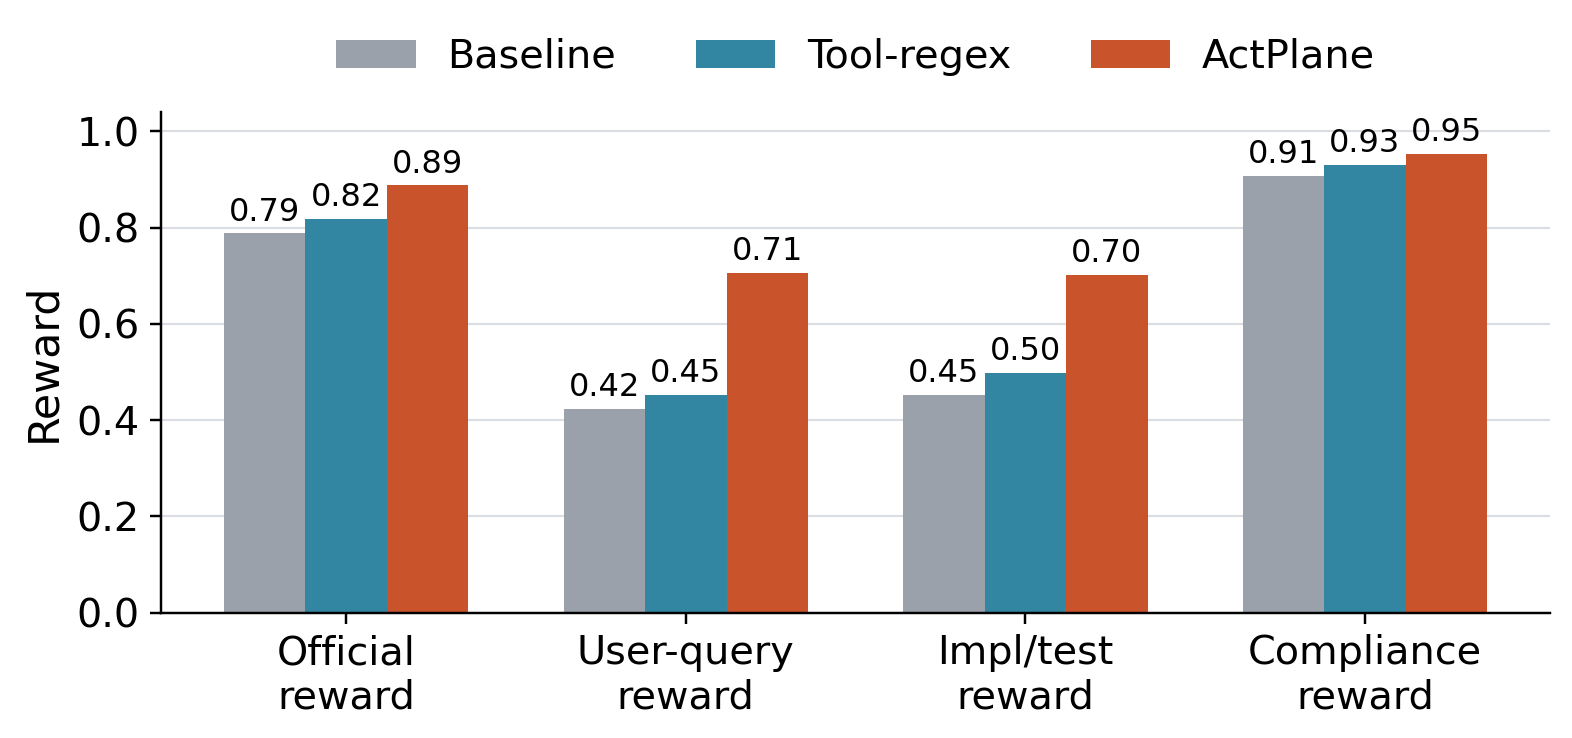
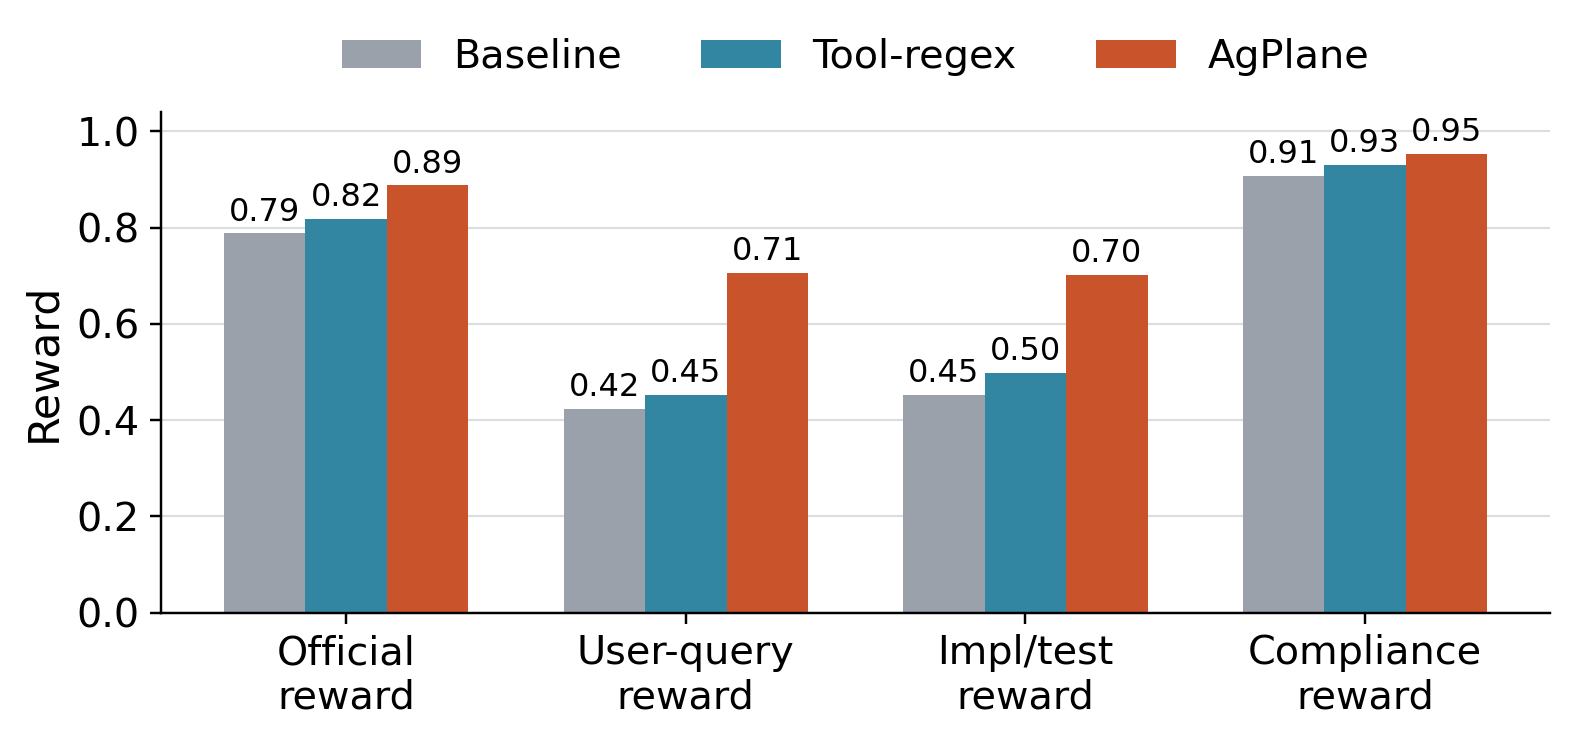
Update metric labels in OctoBench RQ3 plot script for consistency

diff --git a/scripts/plot_octobench_rq3.py b/scripts/plot_octobench_rq3.py
@@ -25,13 +25,13 @@ METRICS = [
 SERIES = {
     "Baseline": [0.788, 0.424, 0.452, 0.907],
     "Tool-regex": [0.818, 0.452, 0.498, 0.931],
-    "ActPlane": [0.888, 0.706, 0.702, 0.953],
+    "AgPlane": [0.888, 0.706, 0.702, 0.953],
 }
 
 COLORS = {
     "Baseline": "#9aa1aa",
     "Tool-regex": "#3286a2",
-    "ActPlane": "#c9532b",
+    "AgPlane": "#c9532b",
 }
 
 
@@ -45,7 +45,7 @@ def main() -> None:
     offsets = {
         "Baseline": -width,
         "Tool-regex": 0,
-        "ActPlane": width,
+        "AgPlane": width,
     }
 
     for name, values in SERIES.items():